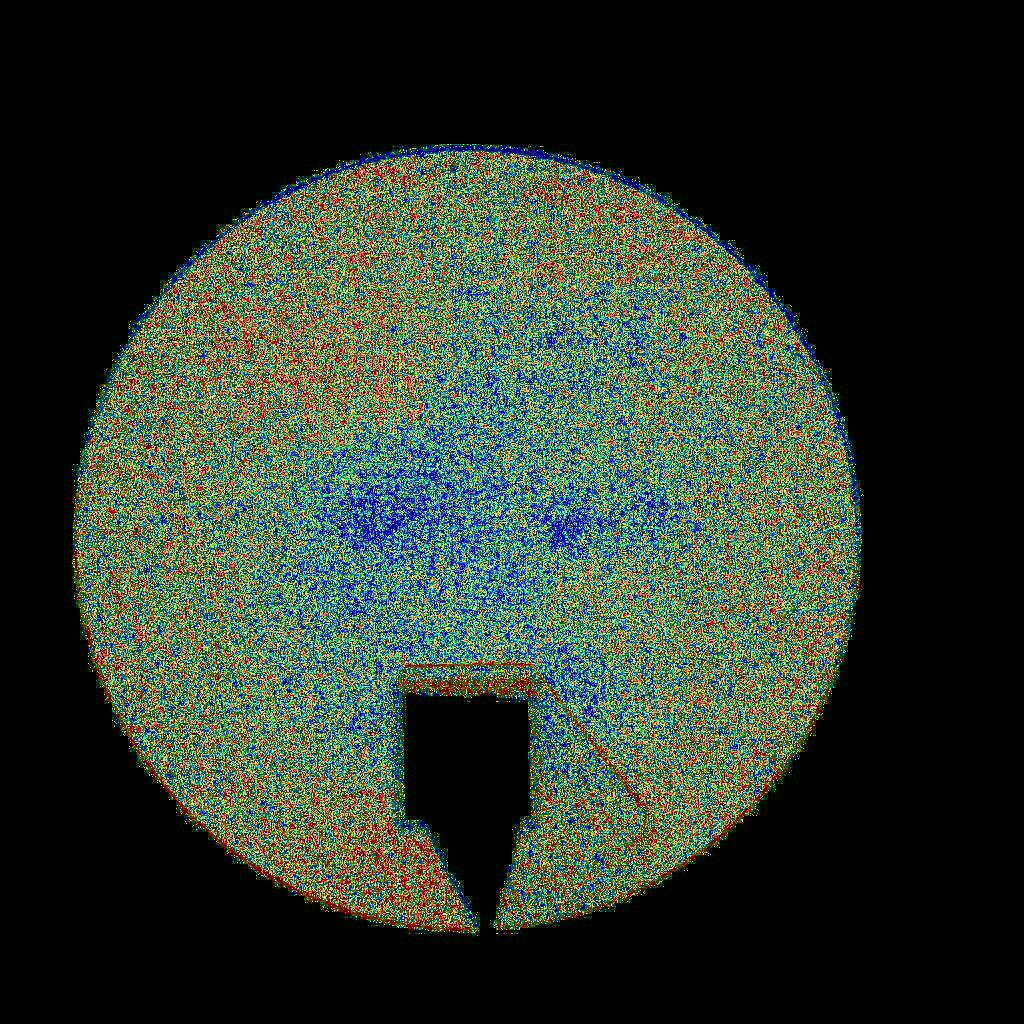
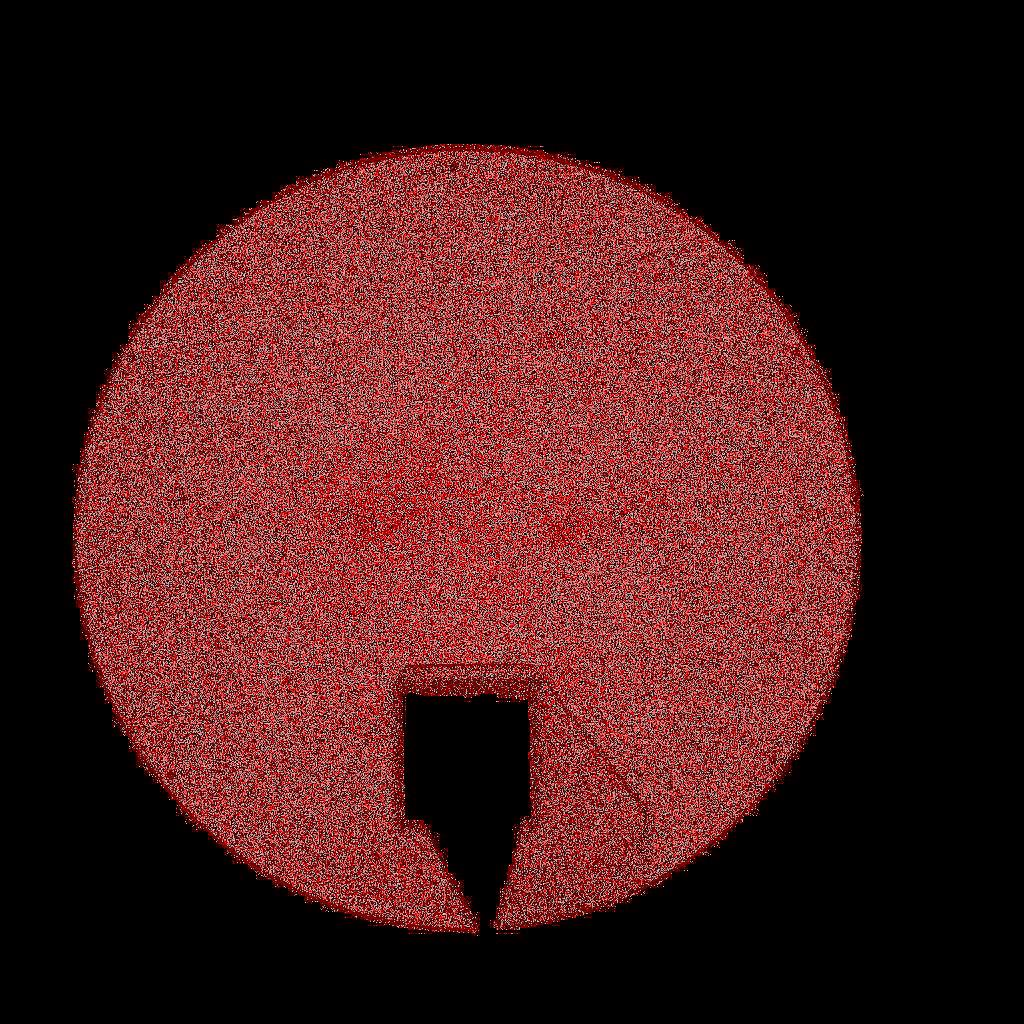
4/7追加

diff --git a/test5.py b/test5.py
@@ -16,8 +16,8 @@ min = 10000
 for y in range(height):
     for x in range(width):
         blue_count = 0
-        for i in range(-3, 4): # 範囲によってここの値を変える
-            for j in range(-3, 4): # 範囲によってここの値を変える
+        for i in range(-2, 3): # 範囲によってここの値を変える
+            for j in range(-2, 3): # 範囲によってここの値を変える
                 if i == 0 and j == 0:
                     continue
                 px, py = x+i, y+j
@@ -26,39 +26,39 @@ for y in range(height):
                 r, g, b = rgb_img.getpixel((px, py))
                 if b > g and b > r:
                     blue_count += 1
-        blue_density.append(blue_count / 48.0) # 範囲によってここの値を変える
+        blue_density.append(blue_count / 24.0) # 範囲によってここの値を変える
         max = blue_count if blue_count > max else max
         min = blue_count if blue_count < min else min
 
 print(max, min)
 
-# 密集度を0-255の範囲に変換する
-for i in range(len(blue_density)):
-    blue_density[i] = blue_density[i] * 255 / max
+# # 密集度を0-255の範囲に変換する
+# for i in range(len(blue_density)):
+#     blue_density[i] = blue_density[i] * 255 / max
 
-for i in range(height):
-    for j in range(width):
-        density = blue_density[i*width+j]
-        r, g, b = rgb_img.getpixel((j, i))
-        r = 255
-        g = 255
-        b = 255 - density
-        rgb_img.putpixel((j, i), (int(r), int(g), int(b)))
+# for i in range(height):
+#     for j in range(width):
+#         density = blue_density[i*width+j]
+#         r, g, b = rgb_img.getpixel((j, i))
+#         r = 255
+#         g = 255
+#         b = 255 - density
+#         rgb_img.putpixel((j, i), (int(r), int(g), int(b)))
 
-rgb_img.save("./test_img/density_rgb.jpg")
+# rgb_img.save("./test_img/density_rgb.jpg")
 
 
-# # 画像の各ピクセルについて、グラデーションを適用する
-# for y in range(height):
-#     for x in range(width):
-#         r, g, b = rgb_img.getpixel((x, y))
-#         density = blue_density[y*width+x]
-#         h, l, s = colorsys.rgb_to_hls(r/255.0, g/255.0, b/255.0)
-#         # h = 240.0 / 360.0 # hは青色に固定す
-#         h = 240.0 * (1.0 - density) / 360.0
-#         # s = density # sは密集度に比例する
-#         r, g, b = colorsys.hls_to_rgb(h, l, s) #(h, l, s)
-#         rgb_img.putpixel((x, y), (int(r*255), int(g*255), int(b*255)))
+# 画像の各ピクセルについて、グラデーションを適用する
+for y in range(height):
+    for x in range(width):
+        r, g, b = rgb_img.getpixel((x, y))
+        density = blue_density[y*width+x]
+        h, l, s = colorsys.rgb_to_hls(r/255.0, g/255.0, b/255.0)
+        # h = 240.0 / 360.0 # hは青色に固定す
+        h = 1.0 * (1.0 - density) / 360.0
+        # s = density # sは密集度に比例する
+        r, g, b = colorsys.hls_to_rgb(h, l, s) #(h, l, s)
+        rgb_img.putpixel((x, y), (int(r*255), int(g*255), int(b*255)))
 
-# # 変換後の画像を保存する
-# rgb_img.save("./test_img/density.jpg")
+# 変換後の画像を保存する
+rgb_img.save("./test_img/density.jpg")

diff --git a/test6.py b/test6.py
@@ -1,42 +1,37 @@
 import cv2
 import numpy as np
 
-# 画像の読み込み
+# 画像を読み込み
 img = cv2.imread('./masked_img.jpg')
 
-# HLS色空間に変換
+# HSL色空間に変換
 hls = cv2.cvtColor(img, cv2.COLOR_BGR2HLS)
 
-# 青色部分のみを抽出
-lower_blue = np.array([100, 50, 50])
-upper_blue = np.array([130, 255, 255])
-mask = cv2.inRange(hls, lower_blue, upper_blue)
+# 青色成分のみを抽出
+blue_mask = cv2.inRange(hls, (80, 70, 0), (140, 255, 255))
 
-# 5x5のフィルタを定義
-kernel = np.ones((5, 5), np.uint8)
+# 密集度を計算
+kernel = np.ones((9, 9), np.uint8)
+density = cv2.dilate(blue_mask, kernel, iterations=1)
 
-# モルフォロジー演算でノイズを除去
-opening = cv2.morphologyEx(mask, cv2.MORPH_OPEN, kernel)
+# グラデーションのための配列を作成
+gradient = np.linspace(255, 0, 256, dtype=np.uint8)
 
-# 画像の大きさを取得
-height, width = opening.shape[:2]
+# グラデーションによる色付け
+colored_density = cv2.LUT(density, gradient)
 
-# 結果画像の初期化
-result = np.zeros((height, width, 3), np.uint8)
+# 密集度が高い箇所を青色にする
+result = cv2.cvtColor(img, cv2.COLOR_BGR2RGB)
+result[colored_density > 200] = [255, 0, 0]
 
-# 周辺5x5の青色画素の密集度を求めて，密集度に応じてグラデーションで色つける
-for i in range(2, height-2):
-    for j in range(2, width-2):
-        count = 0
-        for k in range(i-2, i+3):
-            for l in range(j-2, j+3):
-                if opening[k, l] == 255:
-                    count += 1
-        if count == 0:
-            result[i, j] = [255, 255, 255]
-        else:
-            blue_value = int(255 - (255 / 25) * count)
-            result[i, j] = [255, 255 - blue_value, blue_value]
+# マスク処理
+# マスク画像を読み込み
+mask = cv2.imread('./mask.jpg', 0)
 
-# 結果画像の保存
-cv2.imwrite('./test_img/density_cv.jpg', result)
+result = cv2.bitwise_and(result, result, mask=mask)
+
+# 結果を表示して保存
+cv2.imshow('result', result)
+cv2.waitKey(0)
+cv2.imwrite('output_image.jpg', result)
+cv2.destroyAllWindows()

diff --git a/kirinuki.py b/kirinuki.py
@@ -1,7 +1,12 @@
 import cv2
 
+# 現在日時の取得
+import datetime
+now = datetime.datetime.now()
+now = now.strftime("%Y%m%d_%H%M%S")
+
 # 画像ファイルを読み込みます
-img = cv2.imread('./run/psp/Camera_1000002のコピー.tif')
+img = cv2.imread('./test_img/density9x9.jpg')
 
 # ウィンドウを作成して、画像を表示します
 cv2.namedWindow('image')
@@ -33,7 +38,9 @@ def crop_image(event, x, y, flags, param):
 
         # 切り抜いた画像を新しいウィンドウに表示します
         cv2.imshow('cropped image', cropped_img)
-        cv2.imwrite('./test_img/cropped.jpg', cropped_img)
+        # 画像を現在日時をファイル名にして保存します
+        cv2.imwrite('./test_img/cropped_img' + str(now) + '.jpg', cropped_img)
+
 
 # マウスイベントのコールバック関数を設定します
 cv2.setMouseCallback('image', crop_image)

diff --git a/denoise.py b/denoise.py
@@ -1,0 +1,28 @@
+import cv2
+import numpy as np
+from PIL import Image
+
+def denoise(input):
+    img = cv2.imread(input)
+    # 画像のサイズを取得
+    # height, width = img.shape[:2]
+
+    # gray
+    gray = cv2.cvtColor(img, cv2.COLOR_BGR2GRAY)
+
+    # median
+    median = cv2.medianBlur(img, 5)
+
+    # bilateral
+    bilateral = cv2.bilateralFilter(img, 9, 75, 75)
+
+    # 結果，マスク画像の表示
+    cv2.imshow("input", img)
+    cv2.imshow("gray", gray)
+    cv2.imshow("median", median)
+    cv2.imshow("bilateral", bilateral)
+    cv2.waitKey(0)
+    cv2.destroyAllWindows()
+
+if __name__ == "__main__":
+    denoise("./masked_img.jpg")
